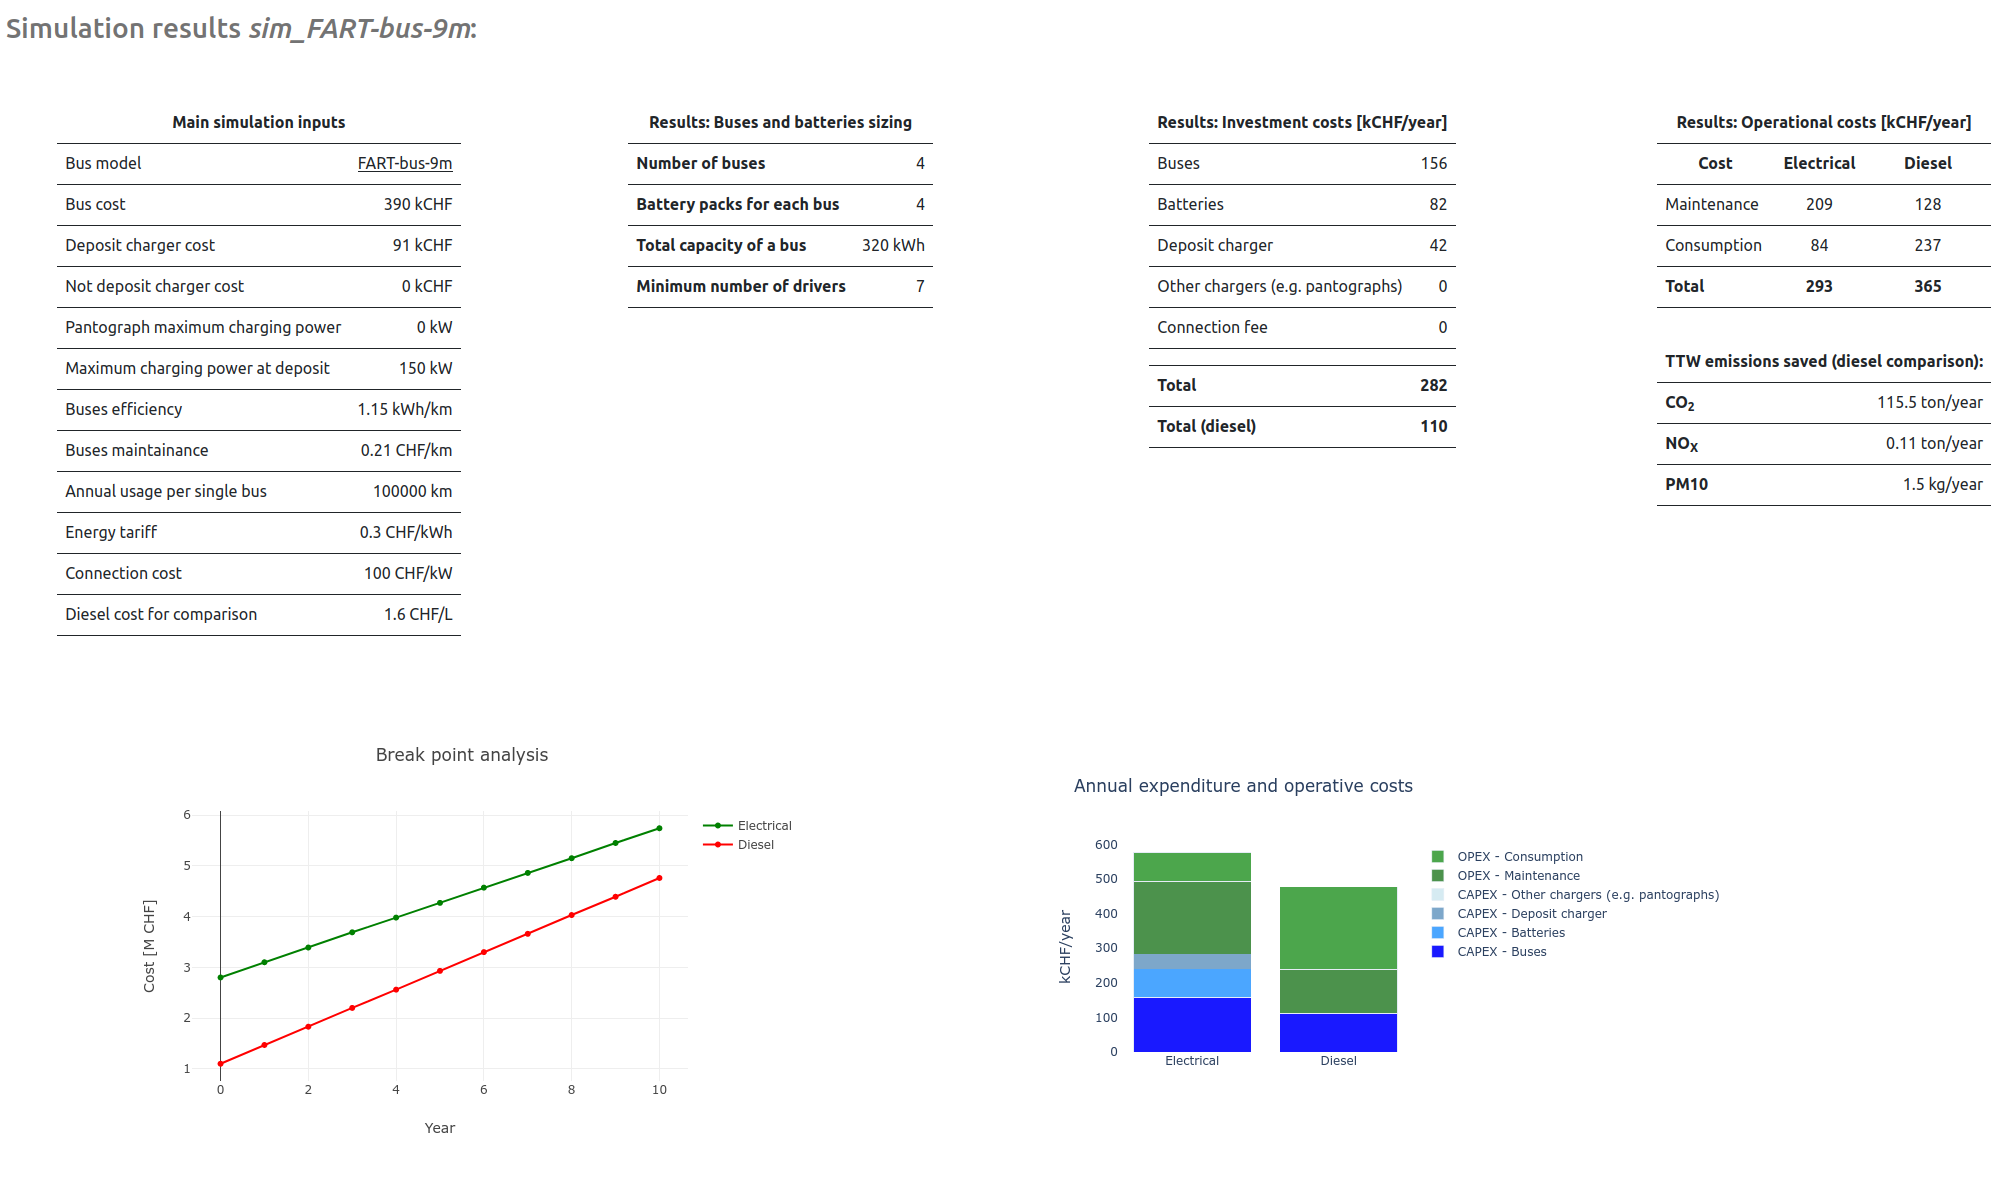
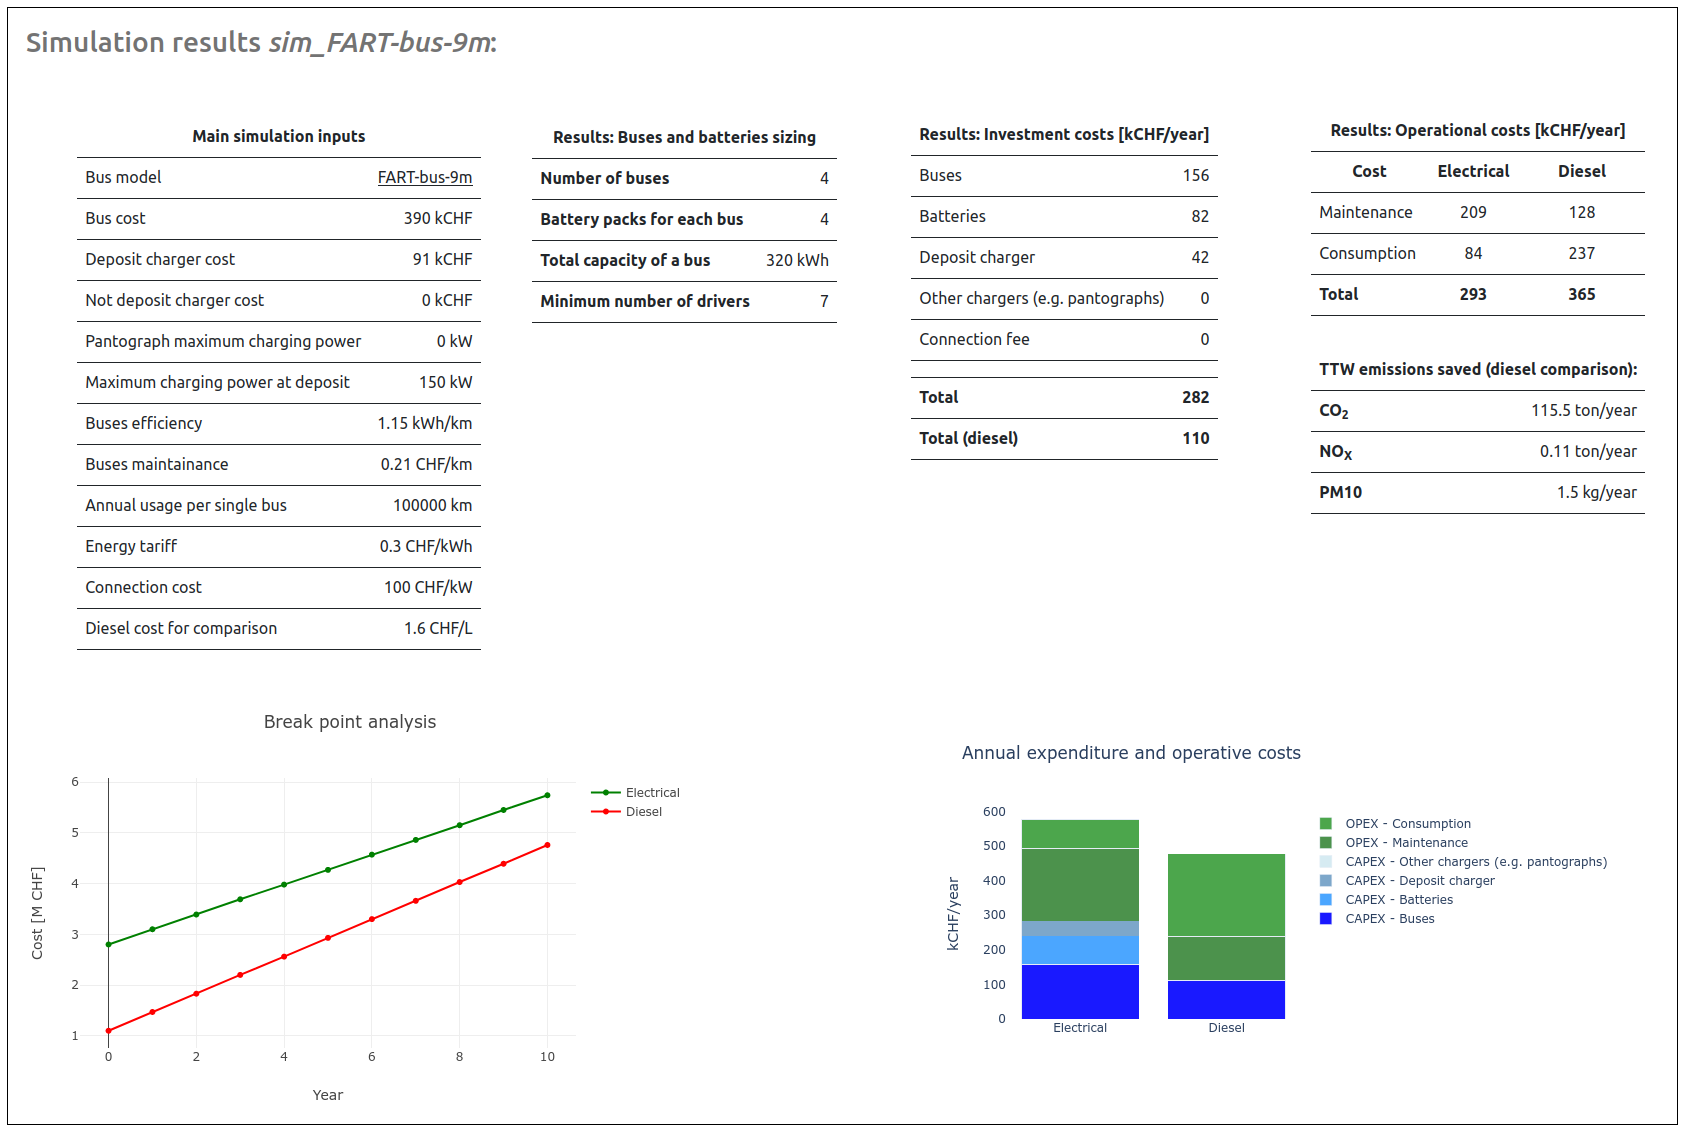
Updated image

diff --git a/README.md b/README.md
@@ -221,7 +221,10 @@ especially if the trip timetable does not have discontinuities. Common causes of
 There might be other edge instances that result in infeasibility that must be evaluated case-by-case with the specific user inputs. 
 You can access the detailed results (including the option to download raw results files in CSV format). Accessing “details” takes you to the following window.
 
-![Simulation Detail](https://github.com/supsi-dacd-isaac/pvxte-web/blob/main/docs/img/simulation_detail1.png)
+<p align="center">
+  <img src="https://github.com/supsi-dacd-isaac/pvxte-web/blob/main/docs/img/simulation_detail1.png" alt="results" width="100%"/>
+</p>
+<p align="center"><em>Figure 10: Simulation results </em></p>
 
 The simulation detail page basically contains four tables. 
 * The first table reports the most important inputs used in the simulation
